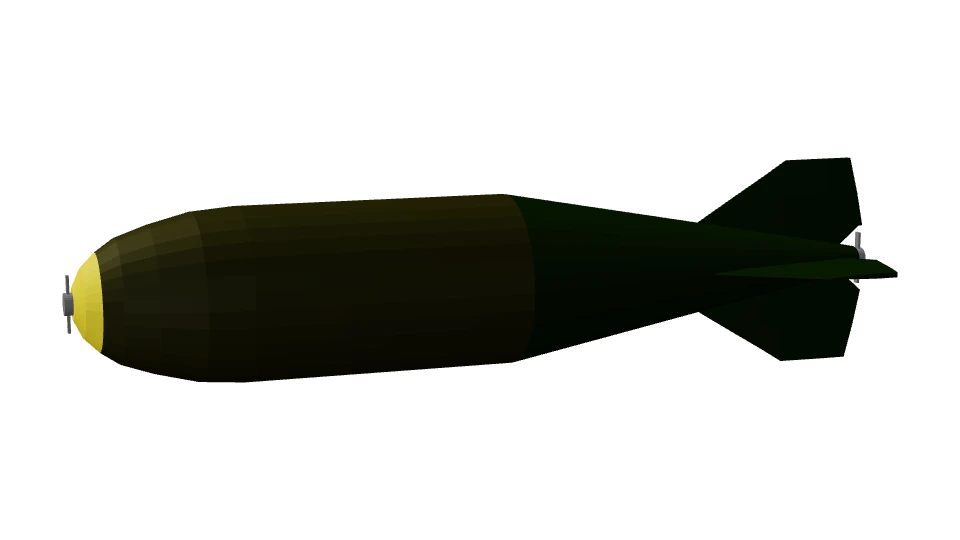
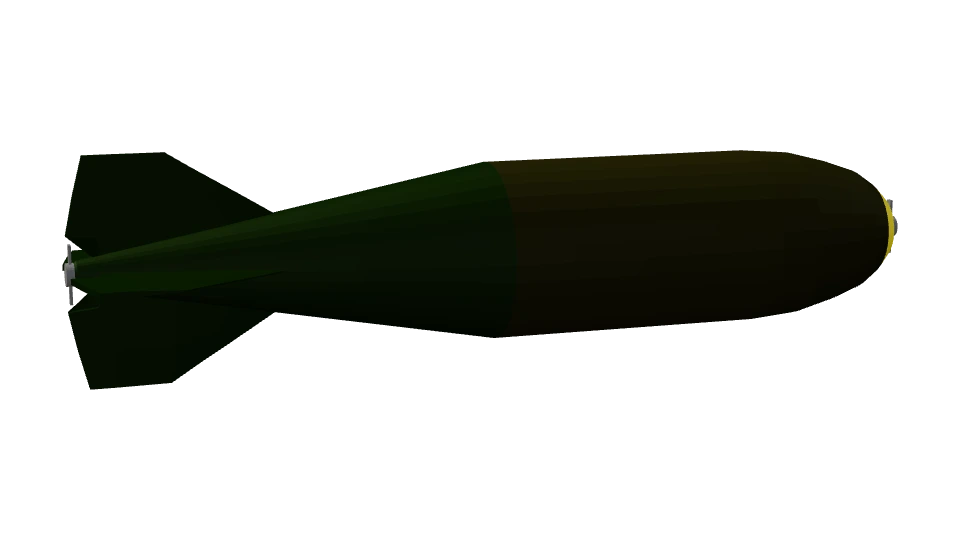
airdef: бомба 1000 lb носом вперёд, вертолёты стоят как самолёты того же ранга

Changed region(s): [[0.0625, 0.2667, 0.9375, 0.7407]]

diff --git a/fortuna-bot-web/games/airdef/models.js b/fortuna-bot-web/games/airdef/models.js
@@ -262,7 +262,7 @@ const LOADED = {};
 // версия файла модели (сброс кэша) — у пересобранных моделей своя, остальные не перекачиваются
 const GLB_V = Object.fromEntries(['w_gbu10', 'w_ecm', 'gepard', 'gepard_lo', 'roland', 'rapier', 'rapier_lo', 'tunguska', 'tunguska_lo', 'khordad', 'strela1', 'zsu234', 'zsu234_lo', 'strela10', 'm163', 'm163_lo', 'chaparral', 'chaparral_lo', 'avenger', 'avenger_lo', 'w_gbu39', 'l_scud', 'pantsir', 'pantsir_lo', 'w_umpk', 'w_decoy_e', 'w_kh101', 'w_jsow', 'w_fab500', 'e_tornado', 'e_f111', 'e_mig23', 'e_mig27', 'e_tu22m2', 'e_a10', 'e_f15e', 'e_su24', 'm163', 'zsu234', 'strela10', 'avenger', 'chaparral', 'w_kh59m', 'w_kh25ml', 'w_kh58', 'w_gbu31', 'w_jassm', 'w_agm65b', 't_kc10'].map((n) => [n, '20261022c']).concat(
   ['roland', 'strela10', 'zsu234', 'zsu234_lo', 'strela1', 'khordad', 'tunguska', 'tunguska_lo', 'gepard', 'gepard_lo', 'chaparral', 'chaparral_lo', 'm163', 'm163_lo', 'rapier', 'rapier_lo', 'avenger', 'avenger_lo', 'w_gbu39', 'pantsir', 'pantsir_lo', 'w_gbu10', 'w_ecm', 'e_mig21n', 'e_mig25', 'e_su7b', 'e_tu16', 'e_f100', 'e_f5', 'e_f117', 'e_jaguar', 'e_buccaneer', 'e_harrier', 'e_mirage', 'e_rafale', 'e_b2'].map((n) => [n, '20261022i'])).concat(
-  ['zsu234', 'zsu234_lo', 'zu23', 'buk', 'phalanx', 'w_fab100', 'w_ofab250', 'w_fab250', 'w_fab1000', 'w_gbu24', 'w_gbu57', 'w_umpk', 'e_yak38', 'e_il28', 'e_tu22', 'e_hunter', 'e_su27', 'e_su35', 'e_etendard', 'e_mirage_f1', 'e_f18c', 'e_ea18g'].map((n) => [n, '20261022k'])).concat([['e_tu95', '20261022l'], ['w_agm65b', '20261022l'], ['w_decoy_e', '20261022l'], ['obj_hangar', '20261022l']].concat(['h_mi24', 'h_mi28', 'h_ka52', 'h_ah64', 'h_ah1', 'h_uh1', 'w_shturm', 'w_b8', 'w_hellfire', 'aam_stinger'].map((n) => [n, '20261022m'])).concat([['w_shturm', '20261022n']])).concat(['h_ah64', 'h_mi28'].map((n) => [n, '20261022p'])).concat([['h_uh1', '20261022r']]).concat(['w_lau61', 'obj_church', 'obj_mill', 'obj_barn', 'pr_hay', 'pr_well', 'pr_pumpkin', 'pr_grave1', 'pr_grave2', 'pr_grave3', 'pr_grave4', 'pr_fence', 'pr_fpost', 'pr_deadtree', 'pr_oldtree', 'c_vaz'].map((n) => [n, '20261022o'])).concat(['e_vulcan', 'e_draken', 'e_viggen', 'w_bomb1000'].map((n) => [n, '20261023b'])).concat(['h_ka50', 'h_mi8', 'h_uh60', 'h_rah66'].map((n) => [n, '20261023c'])).concat([['e_draken', '20261023d']])); // 20261023c — четыре вертолёта manilov.ap (2026-10-21) // 20261023b — Vulcan, Draken, Viggen, бомба 1000 lb (2026-10-21) // l — 2026-10-20: Ту-95 без нарисованных дисков, Maverick и Harpy без сильного упрощения // l — Ту-95 без нарисованных дисков винтов (2026-10-20) // j — четвёртая партия, новая «Шилка», УМПК без сжатия // i — ЗРК без упрощения, камуфляж шейдером, третья партия самолётов (2026-10-19); c — замены моделей 2026-10-19; остальные пересобраны 2026-10-18 (затенение в стыках) — общая версия ниже
+  ['zsu234', 'zsu234_lo', 'zu23', 'buk', 'phalanx', 'w_fab100', 'w_ofab250', 'w_fab250', 'w_fab1000', 'w_gbu24', 'w_gbu57', 'w_umpk', 'e_yak38', 'e_il28', 'e_tu22', 'e_hunter', 'e_su27', 'e_su35', 'e_etendard', 'e_mirage_f1', 'e_f18c', 'e_ea18g'].map((n) => [n, '20261022k'])).concat([['e_tu95', '20261022l'], ['w_agm65b', '20261022l'], ['w_decoy_e', '20261022l'], ['obj_hangar', '20261022l']].concat(['h_mi24', 'h_mi28', 'h_ka52', 'h_ah64', 'h_ah1', 'h_uh1', 'w_shturm', 'w_b8', 'w_hellfire', 'aam_stinger'].map((n) => [n, '20261022m'])).concat([['w_shturm', '20261022n']])).concat(['h_ah64', 'h_mi28'].map((n) => [n, '20261022p'])).concat([['h_uh1', '20261022r']]).concat(['w_lau61', 'obj_church', 'obj_mill', 'obj_barn', 'pr_hay', 'pr_well', 'pr_pumpkin', 'pr_grave1', 'pr_grave2', 'pr_grave3', 'pr_grave4', 'pr_fence', 'pr_fpost', 'pr_deadtree', 'pr_oldtree', 'c_vaz'].map((n) => [n, '20261022o'])).concat(['e_vulcan', 'e_draken', 'e_viggen', 'w_bomb1000'].map((n) => [n, '20261023b'])).concat(['h_ka50', 'h_mi8', 'h_uh60', 'h_rah66'].map((n) => [n, '20261023c'])).concat([['e_draken', '20261023d'], ['w_bomb1000', '20261023d']])); // 20261023c — четыре вертолёта manilov.ap (2026-10-21) // 20261023b — Vulcan, Draken, Viggen, бомба 1000 lb (2026-10-21) // l — 2026-10-20: Ту-95 без нарисованных дисков, Maverick и Harpy без сильного упрощения // l — Ту-95 без нарисованных дисков винтов (2026-10-20) // j — четвёртая партия, новая «Шилка», УМПК без сжатия // i — ЗРК без упрощения, камуфляж шейдером, третья партия самолётов (2026-10-19); c — замены моделей 2026-10-19; остальные пересобраны 2026-10-18 (затенение в стыках) — общая версия ниже
 // разбор GLB: меши (позиции, нормали, UV, индексы), материалы, картинки текстур
 function parseGlb(buf) {
   const dv = new DataView(buf), jl = dv.getUint32(12, true), json = JSON.parse(new TextDecoder().decode(new Uint8Array(buf, 20, jl)));

diff --git a/fortuna-bot-web/tools/airdef-models/prepare.js b/fortuna-bot-web/tools/airdef-models/prepare.js
@@ -157,7 +157,7 @@ const CONFIG = {
   e_draken: { src: `${DL}/j35.glb`, scale: 1.006, fwd: [-0.7632, 0.6461], rulesIn: 'game', tex: () => 1024, texVf: 'hue=s=0.8' /* Mark 2026-10-21: бирюзовый камуфляж автора — «чуть-чуть убавь насыщенность» */, centerX: true, groups: () => 'body' }, // J35F: чистая модель (шасси убрано автором), длина 15,35 м
   e_viggen: { src: `${DL}/ja37.glb`, scale: 1.0, fwd: [-0.6659, 0.7461], rulesIn: 'game', tex: () => 1024, centerX: true, // ось — x −0,9 (до центровки): подфюзеляжный бак и его пилоны — долой
     groups: (c) => (c.ctr[1] < -0.7 && Math.abs(c.ctr[0] + 0.9) < 1.0 && c.ctr[2] > -2.4 && c.ctr[2] < -0.9 && Math.max(...c.size) > 2.0 ? null : LS(c)) },
-  w_bomb1000: { src: `${DL}/an-m65a1.glb`, scale: 0.4286, nose: '+z', tex: () => 256, pickMesh: /./ }, // AN-M65A1: Ø корпуса 1,12 → 0,48 м, длина 4,36 → 1,87 м
+  w_bomb1000: { src: `${DL}/an-m65a1.glb`, scale: 0.4286, nose: '-z', tex: () => 256, pickMesh: /./ }, // AN-M65A1: Ø корпуса 1,12 → 0,48 м, длина 4,36 → 1,87 м
   e_su27: { src: `${DL}/sukhoi_su-27_flanker.glb`, scale: 21.9 / 30.61, nose: '+x', rulesIn: 'game', tex: () => 512, centerX: true, groups: LS },
   e_su35: { src: `${DL}/sukhoi_su-35_flanker-e__-35.glb`, scale: 21.9 / 10.15, nose: '+x', rulesIn: 'game', tex: () => 512, centerX: true, groups: LS },
   e_etendard: { src: `${DL}/super-etendard.glb`, scale: 14.31 / 14.29, nose: '-x', rulesIn: 'game', tex: () => 512, centerX: true, groups: (c) => ((c.ctr[1] < -1.15 || (c.ctr[1] < -0.8 && Math.abs(Math.abs(c.ctr[0]) - 1.7) < 0.2)) && Math.max(...c.size) < 3 ? null : LS(c)) /* шасси и его стойки */ },

diff --git a/fortuna-bot-web/games/airdef/progress.js b/fortuna-bot-web/games/airdef/progress.js
@@ -91,7 +91,7 @@ export const PARENT = {
 export const COST = { big: [600, 2500, 6000, 12000], small: [300, 1000, 2500, 5000] };
 // множитель цены ветки (Mark 2026-10-20: каждая ветка до ранга IV — около недели): ПВО и «Волна» почти целиком из «малых» единиц;
 // вооружение — ×1 (его качают вместе с самолётами: самолёт с оружием — ≈ 9–10 дней)
-export const BRANCH_K = { air: 1, wpn: 1, pvo: 2.6, strike: 5.5, heli: 0.57 }; // heli: 8 → 12 вертолётов (2026-10-21) — множитель 1 → 0,57, чтобы путь до ранга IV остался ≈ 1,6 дня (Mark: «пусть так остаётся»)
+export const BRANCH_K = { air: 1, wpn: 1, pvo: 2.6, strike: 5.5, heli: 1 }; // heli: Mark 2026-10-21 — «время прокачки для вертолётов такое же, как у других юнитов»: вертолёт стоит как самолёт того же ранга (было 0,57)
 
 // ── дерево ──
 const node = (branch, key, side, rank, name, short, tier) => ({ id: branch + ':' + key, branch, key, side, rank, name, short, tier, start: START[branch].includes(key) });

diff --git a/fortuna-bot-web/supabase/functions/_shared/airdef/progress.js b/fortuna-bot-web/supabase/functions/_shared/airdef/progress.js
@@ -92,7 +92,7 @@ export const PARENT = {
 export const COST = { big: [600, 2500, 6000, 12000], small: [300, 1000, 2500, 5000] };
 // множитель цены ветки (Mark 2026-10-20: каждая ветка до ранга IV — около недели): ПВО и «Волна» почти целиком из «малых» единиц;
 // вооружение — ×1 (его качают вместе с самолётами: самолёт с оружием — ≈ 9–10 дней)
-export const BRANCH_K = { air: 1, wpn: 1, pvo: 2.6, strike: 5.5, heli: 0.57 }; // heli: 8 → 12 вертолётов (2026-10-21) — множитель 1 → 0,57, чтобы путь до ранга IV остался ≈ 1,6 дня (Mark: «пусть так остаётся»)
+export const BRANCH_K = { air: 1, wpn: 1, pvo: 2.6, strike: 5.5, heli: 1 }; // heli: Mark 2026-10-21 — «время прокачки для вертолётов такое же, как у других юнитов»: вертолёт стоит как самолёт того же ранга (было 0,57)
 
 // ── дерево ──
 const node = (branch, key, side, rank, name, short, tier) => ({ id: branch + ':' + key, branch, key, side, rank, name, short, tier, start: START[branch].includes(key) });

diff --git a/fortuna-bot-web/AIRDEF_STATE.md b/fortuna-bot-web/AIRDEF_STATE.md
@@ -151,8 +151,8 @@ Mark работает с **Opus на высоком усилии** — он ру
   - НАР в полёте — простая модель (цилиндр с оперением): готовых С-8/Hydra под CC0/CC BY нет (рип WT отброшен). Mark: «пока оставим,
     потом подумаем» — варианты: своя модель по чертежам (glb) или платная.
   - Вопросы к Mark из ревью деплоя: (1) ИИ-вертолёты сейчас во всех «Обороне»/фоне меню/«Съёмке» со 2-й волны (raid.js spawnWave) —
-    оставить или только на осенней карте (`helis: city.kind === 'autumn'` в main.js); (2) ветка «Вертолёты» до IV ≈ 1,6 дня
-    (BRANCH_K.heli = 1, progress.js) против недели у остальных — так задумано под событие или выровнять; (3) UH-1 (только НАР) у ИИ — 0 попаданий из 10.
+    оставить или только на осенней карте (`helis: city.kind === 'autumn'` в main.js); (2) [решено 2026-10-21: вертолёт стоит как самолёт того же
+    ранга, BRANCH_K.heli = 1, ветка до IV ≈ 2,8 дня — вертолётов 10 против 30 самолётов]; (3) UH-1 (только НАР) у ИИ — 0 попаданий из 10.
   - Мелочи из ревью: autumn-render текстуры ?v=20261023a вне общей схемы; старые ?v в импортах game-server/airdef-rooms.js, airdef-multi.js.
   - Ссылки для проверки — сервер без кэша :8937 (launch.json «fortuna-nocache», доступен с телефона); после правок модулей — поднимать ?v=.
 - **Хеллоуин к 31.10 (решено Mark 2026-10-20):** новая осенняя карта (сумерки + густой туман в низинах, холмы и овраги для
@@ -182,3 +182,4 @@ Mark работает с **Opus на высоком усилии** — он ру
 - 2026-10-21 · Sonnet 5.5 (исполнитель) · четыре вертолёта manilov.ap — Ка-50 (чёрный), Ми-8МТВ, UH-60 DAP, RAH-66 Comanche: модели без сжатия, ветки (Ми-24В → Ка-50 → Ка-52, Ми-24В → Ми-8 → Ми-28Н, UH-1H → UH-60 → RAH-66), подвески, ТТХ, FCS, звук винта, ИИ налётов, паритет, иконки, авторы; BRANCH_K.heli 0,57 (≈ 1,6 дня до IV) — см. коммит
 - 2026-10-21 · Opus 5.5 (исполнитель) · ветки авиации и вертолётов перестроены по схеме Mark («хорошо, делай так»): без скачков рангов и цепочек внутри ранга, родитель — предшественник по КБ/роли (Су-17 → Су-25 → Су-30, Ил-28 → Су-24 → Су-34 → Су-57, МиГ-29 → МиГ-31, Су-27 → Су-35, Ту-22 → Ту-22М2 → Ту-22М3 → Ту-160 и → Ту-95; Draken → Viggen → Gripen → Typhoon, Vulcan → B-52, F-111 → B-1B, F-117 → F-35, F-100 → A-10, Buccaneer → Tornado; Ми-24 → Ми-8 → Ка-50 → Ка-52 и → Ми-28, UH-1 → AH-1W → AH-64 → RAH-66 и → UH-60); путь до IV не изменился; стенды прогрессии, сервер, ui-test, event-test — ок
 - 2026-10-21 · Opus 5.5 (исполнитель) · ветка вооружения по ролям, как авиация (Mark «договорились»): малые калибры ФАБ-100 → ФАБ-250 → ОФАБ-250 (калибр растёт), Х-55 ← Х-28, РЭБ Востока ← Х-58, РЭБ Запада ← HARM, AARGM ← РЭБ, JASSM ← Storm Shadow — без скачков рангов; Draken — насыщенность ×0,8 («чуть-чуть», модель 20261023d); в progress-server-test цель — ФАБ-100; стенды, сервер, ui-test, event-test — ок
+- 2026-10-21 · Opus 5.5 (исполнитель) · бомба 1000 lb развёрнута носом вперёд (nose '-z' в prepare.js, модель 20261023d; миниатюры wpn_bomb1000 и air_e_draken перепечены); вертолёты стоят как самолёты того же ранга (BRANCH_K.heli 0,57 → 1, Mark), стенды, сервер, event-test — ок
